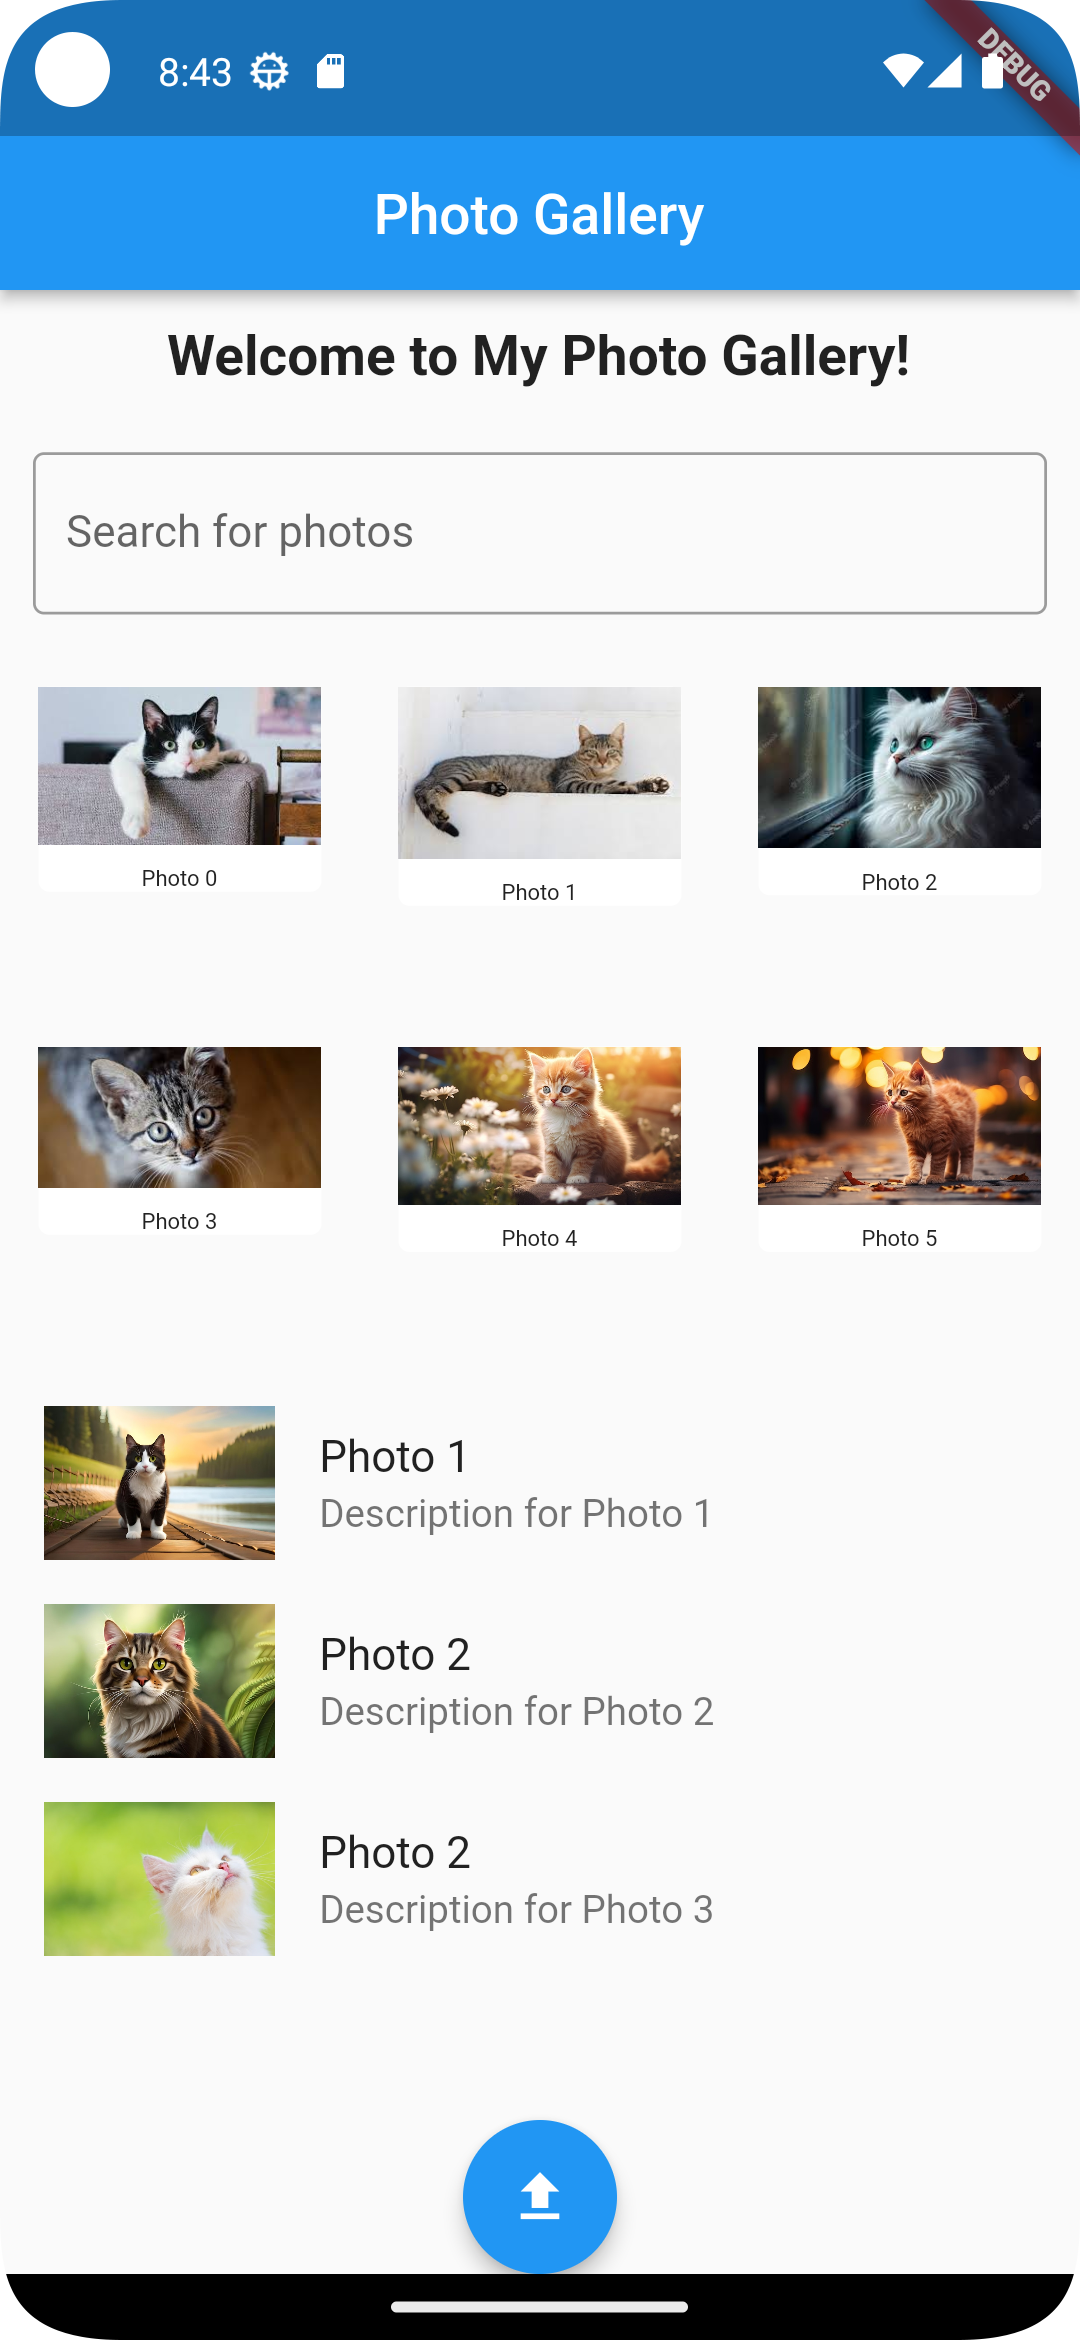
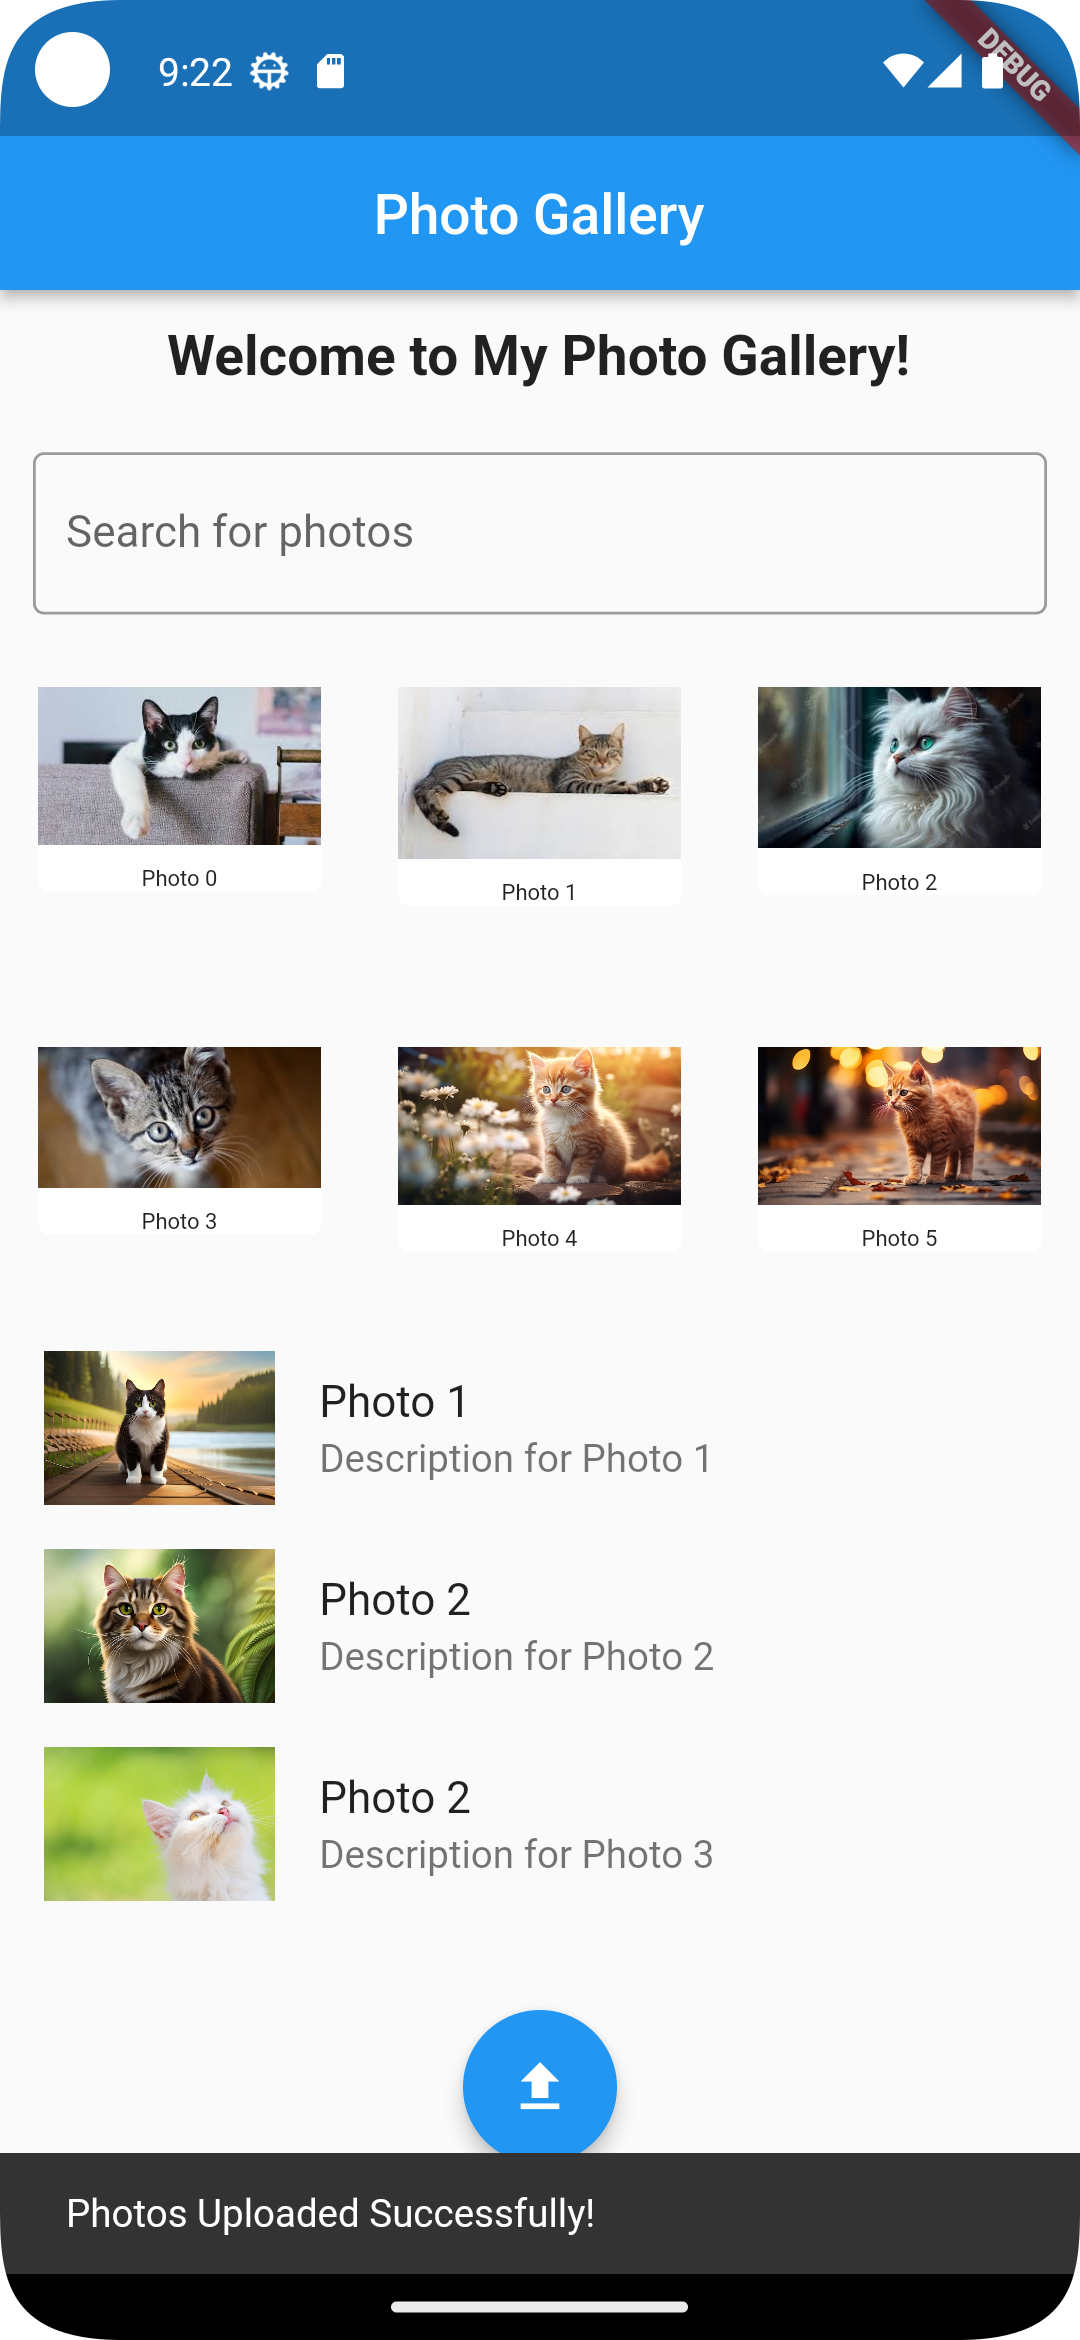
initial commit

diff --git a/lib/main.dart b/lib/main.dart
@@ -189,9 +189,11 @@ class _MyWidgetState extends State<MyWidget> {
               MySnackBar("Photos Uploaded Successfully!", context);
             },
             child: Icon(Icons.upload),
-          ),
-        ),
 
+          ),
+
+        ),
+        SizedBox(height: 40.0),
 
       ],
     );
